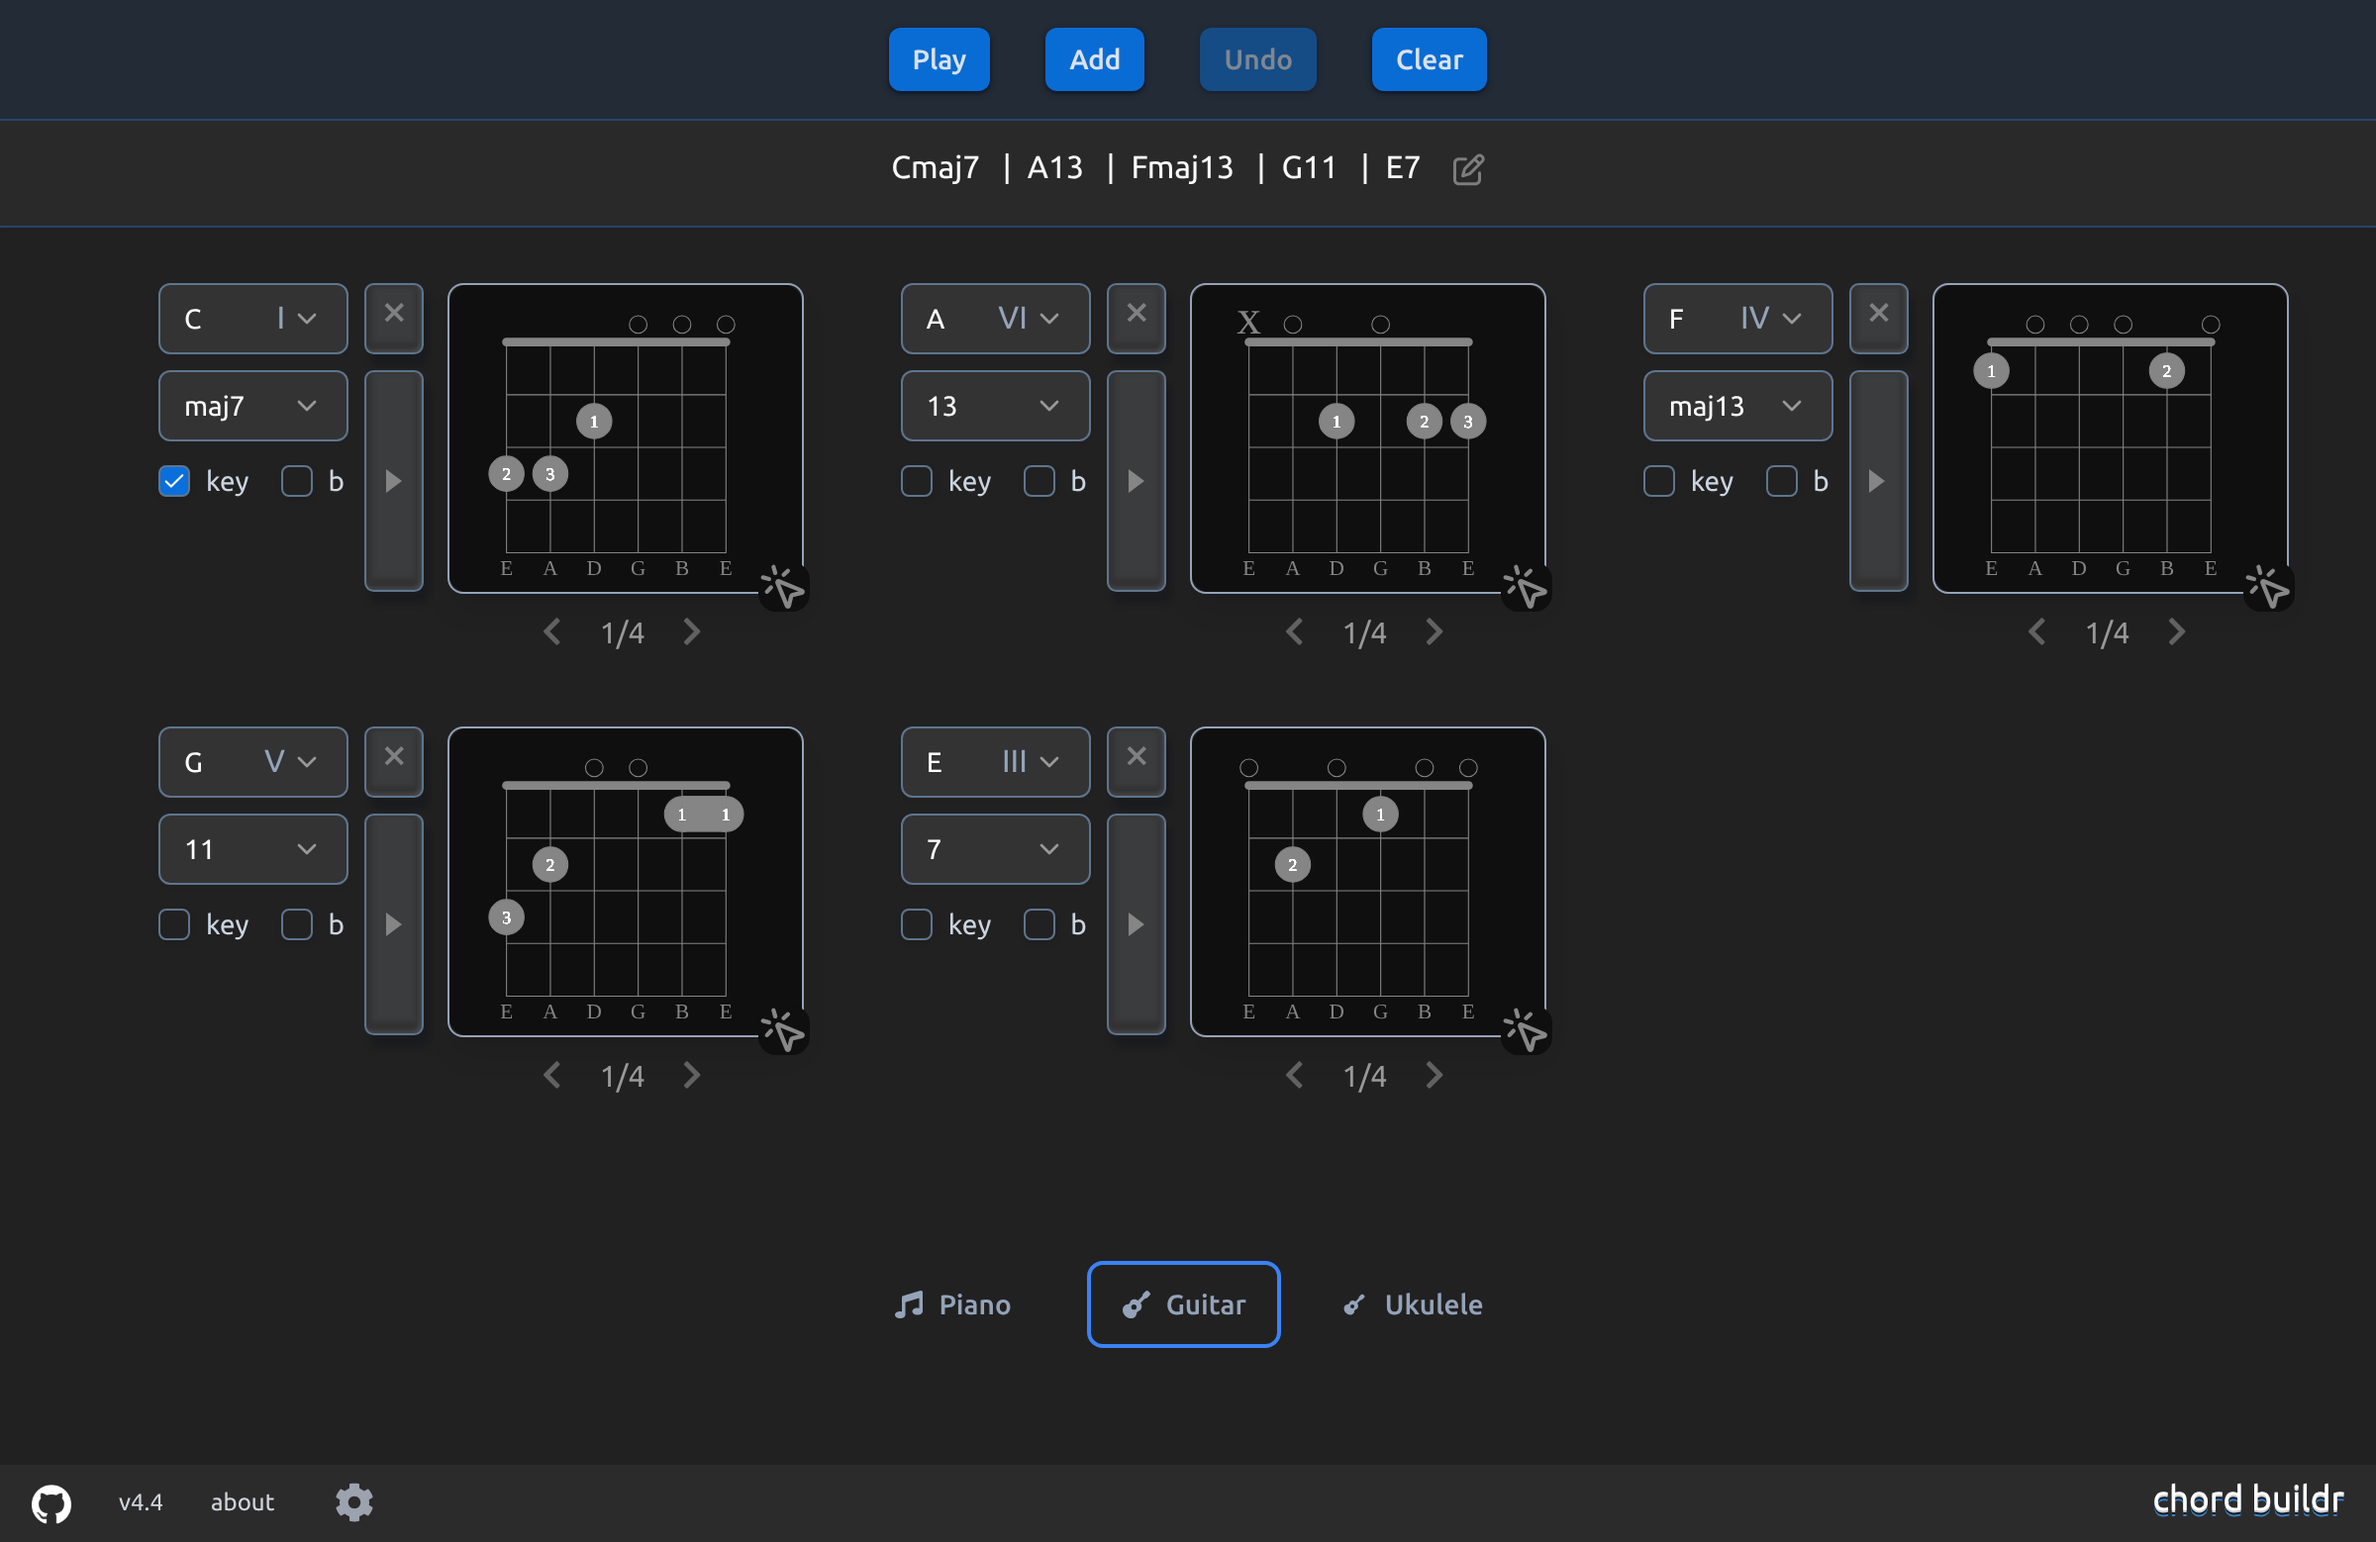
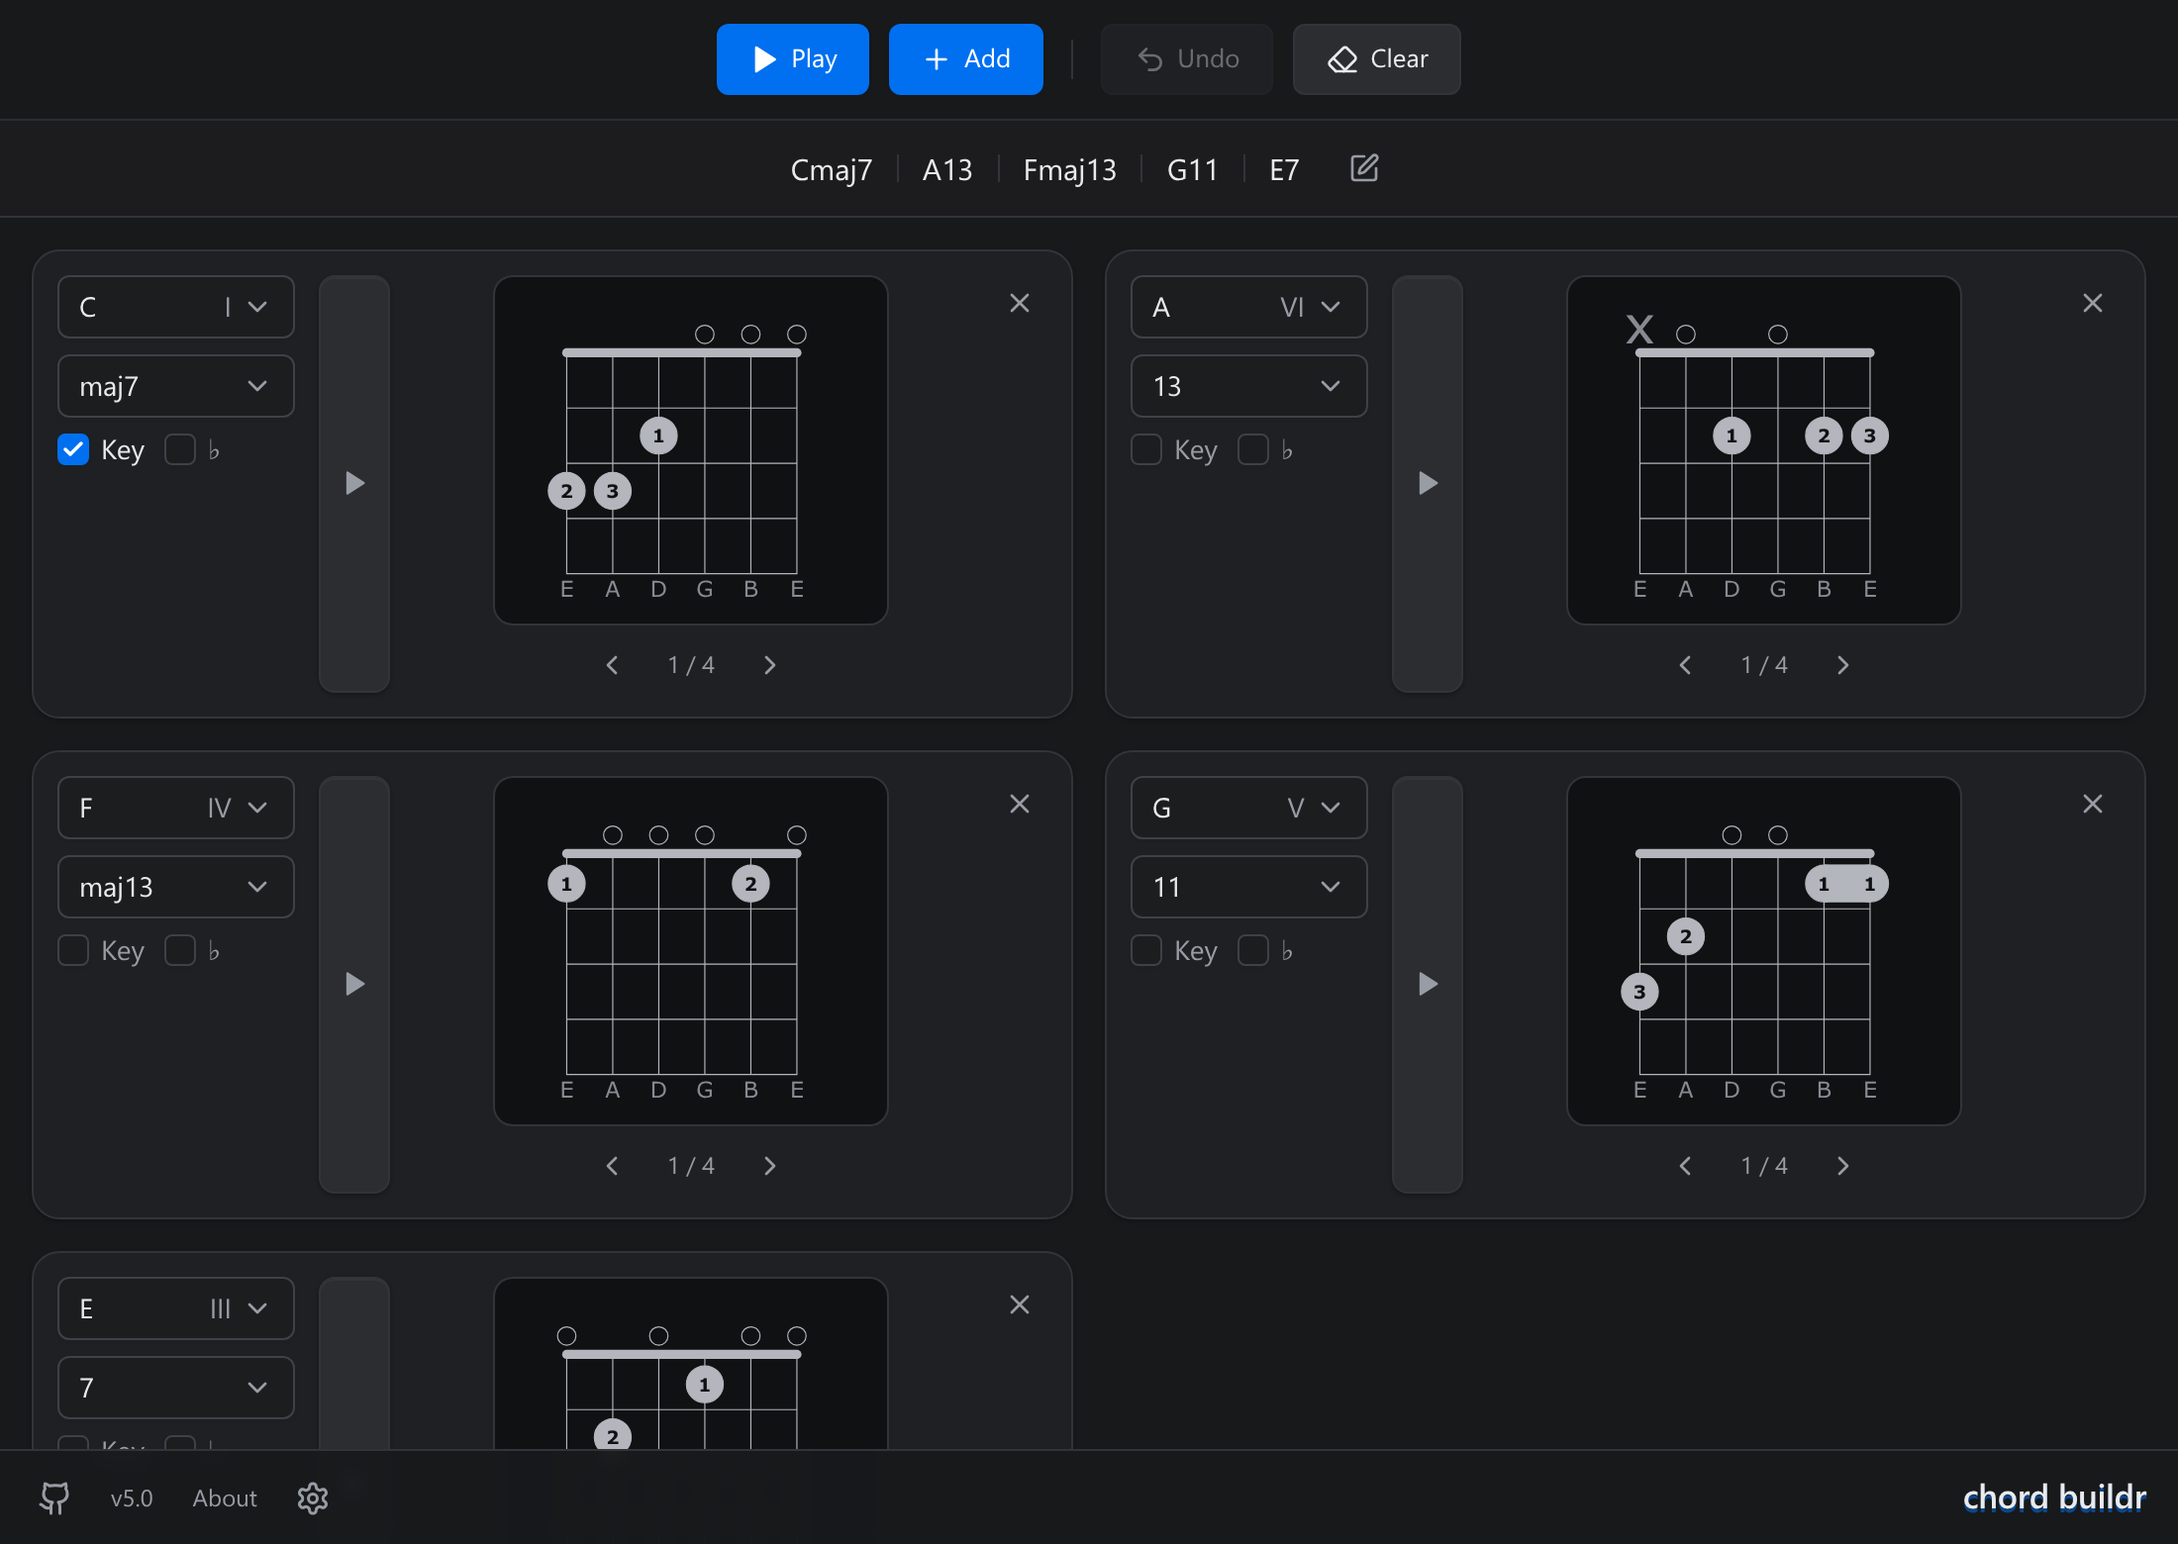
update chordbuildr and thumbs update font fix

diff --git a/src/components/ChordBuildr.tsx b/src/components/ChordBuildr.tsx
@@ -24,12 +24,12 @@ const integrations: Integration[] = [
 ]
 
 const stack: StackLayer[] = [
-  { layer: "Frontend", tech: "React 18, TypeScript, Vite, React Router" },
-  { layer: "UI", tech: "Tailwind CSS 3, shadcn/ui (Radix primitives, cmdk), Font Awesome, Lucide icons" },
+  { layer: "Frontend", tech: "React 19, TypeScript, Vite 8 (Rolldown), React Router 8" },
+  { layer: "UI", tech: "Tailwind CSS 3, shadcn/ui (Radix primitives, cmdk), Lucide icons, Web Animations API transitions" },
   { layer: "Music & audio", tech: "Tone.js (synth voices and samplers), Tonal (notes and Roman numeral progressions), react-chords (guitar/ukulele diagrams)" },
   { layer: "State", tech: "Progressions encoded in the URL for saving and sharing (no backend)" },
   { layer: "Hosting", tech: "GitHub Pages (custom domain)" },
-  { layer: "Tooling & tests", tech: "Vitest, Testing Library, ESLint" },
+  { layer: "Tooling & tests", tech: "Bun, Vitest (jsdom), ESLint, GitHub Actions CI" },
 ]
 
 const ChordBuildr: FC = () => {

diff --git a/.claude/skills/update-thumbs/SKILL.md b/.claude/skills/update-thumbs/SKILL.md
@@ -23,6 +23,10 @@ Playwright is pinned to 1.61.1 because that matches the Chromium build already c
 `~/.cache/ms-playwright` (chromium-1228). If the browser is missing, run
 `npx playwright install chromium` from the scripts dir.
 
+Under WSL, `capture.mjs` points Chromium at [scripts/fonts.conf](scripts/fonts.conf), which adds
+`/mnt/c/Windows/Fonts` and makes Segoe UI the default sans. Sites that use the OS font stack
+(`system-ui`, `"Segoe UI"`, `Verdana`) otherwise render in DejaVu Sans.
+
 ## 2. Make sure each project has shots in the manifest
 
 ```bash
